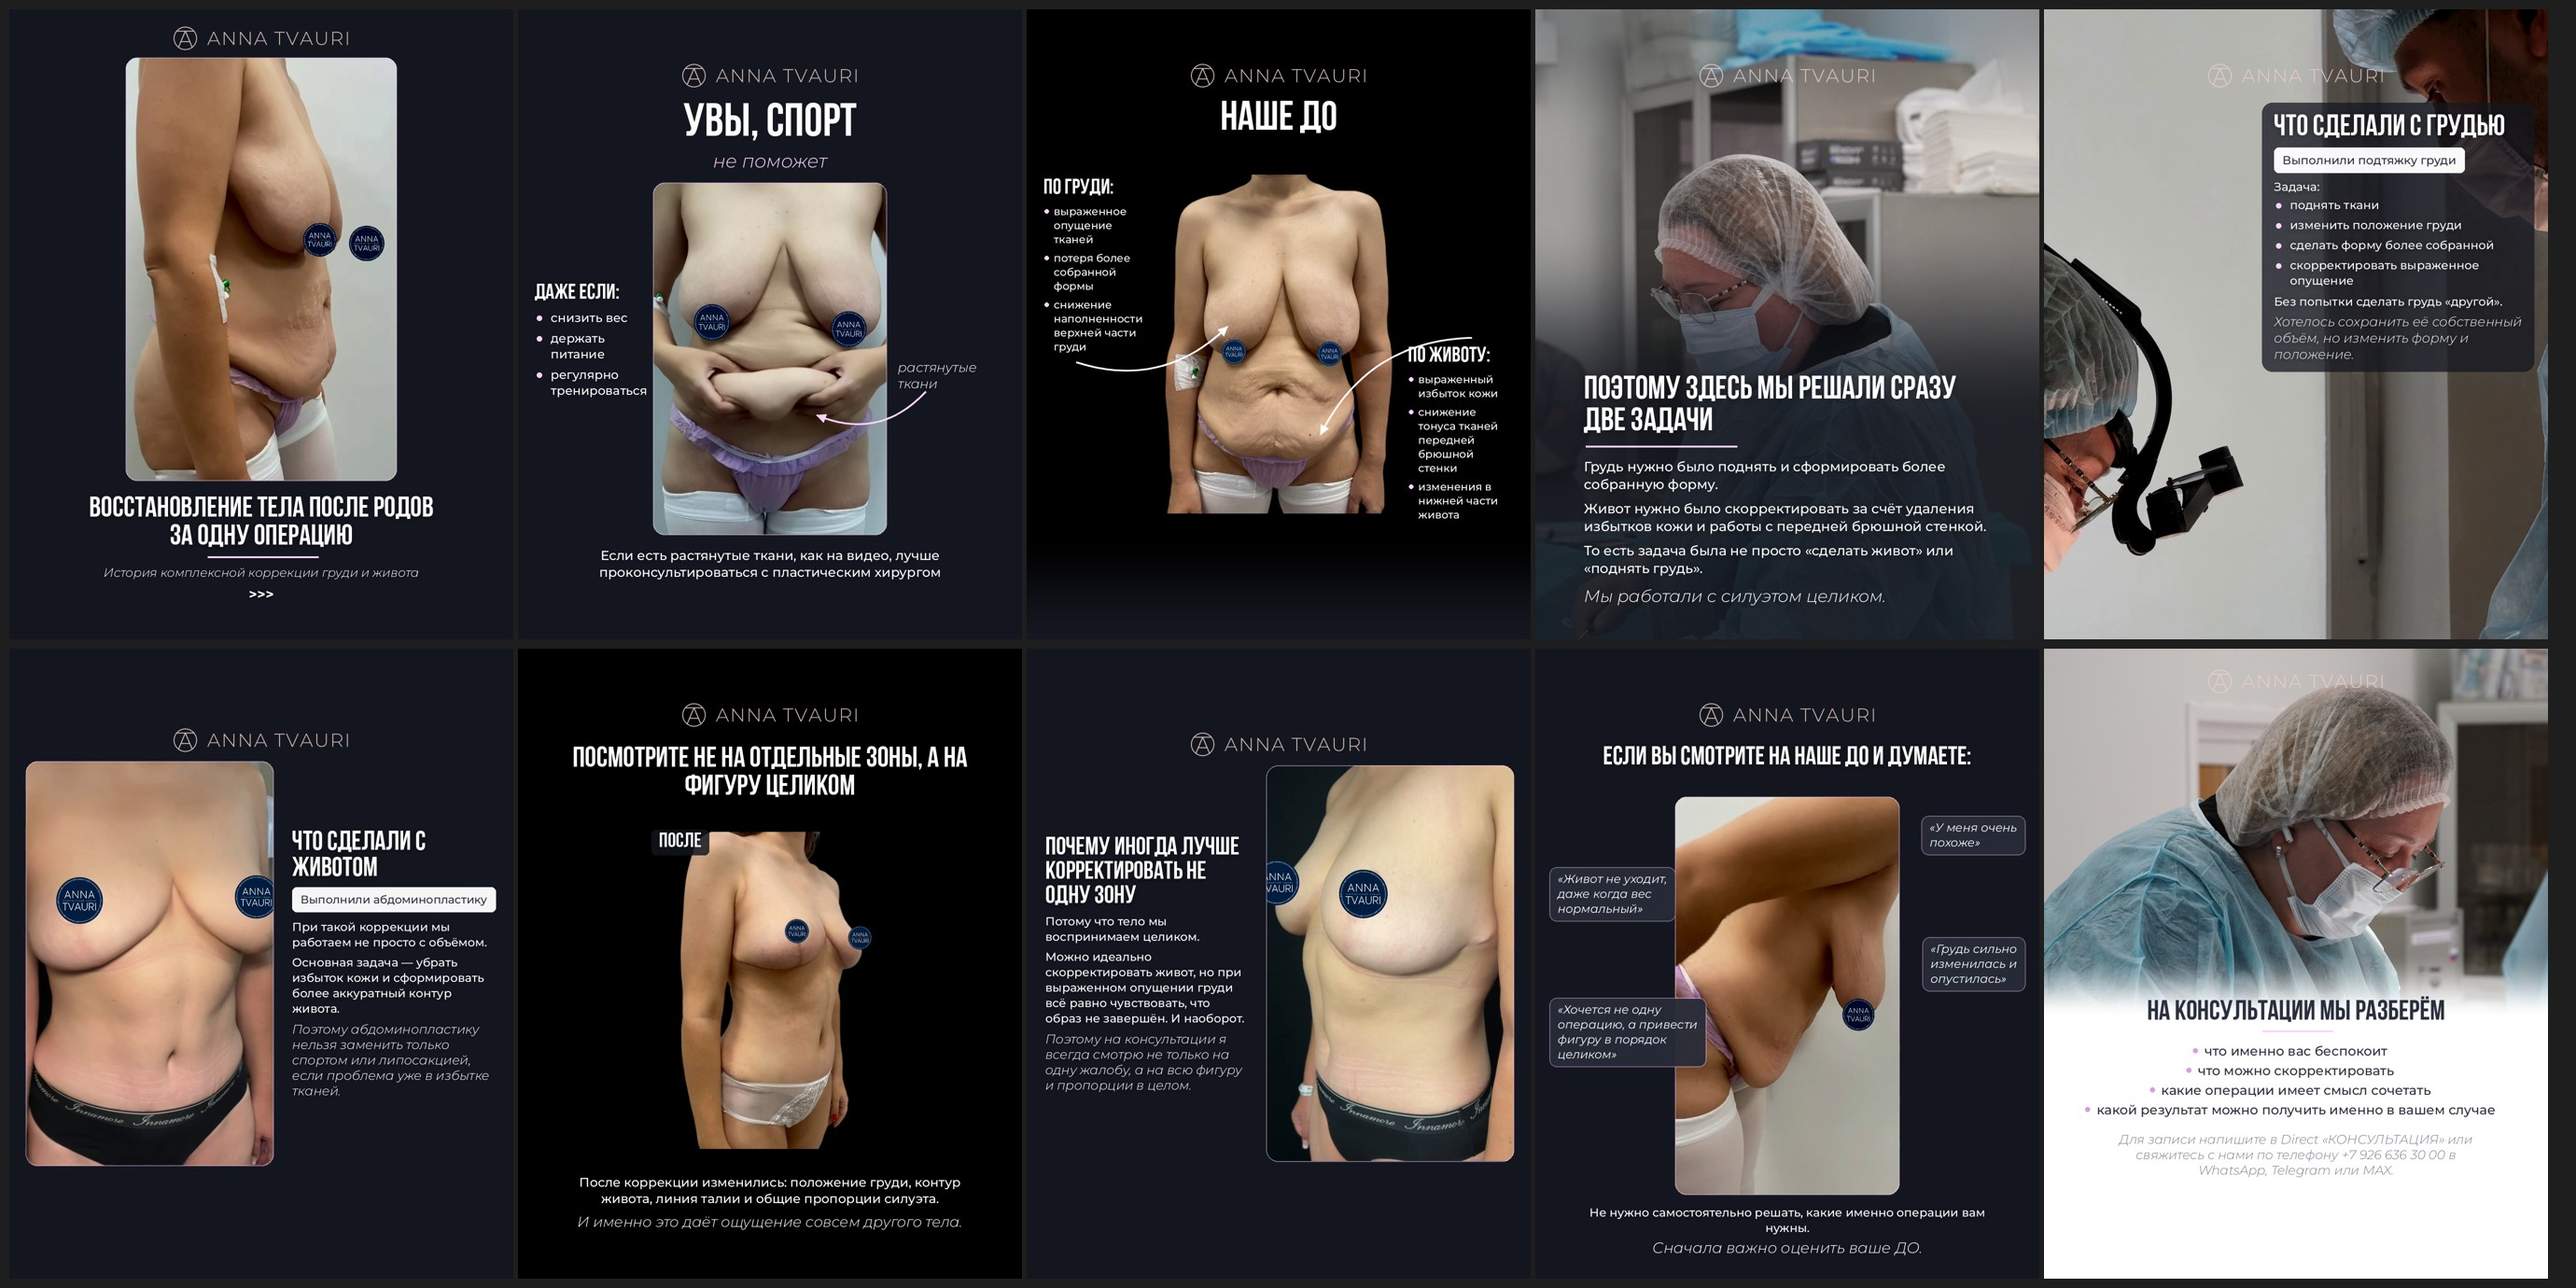
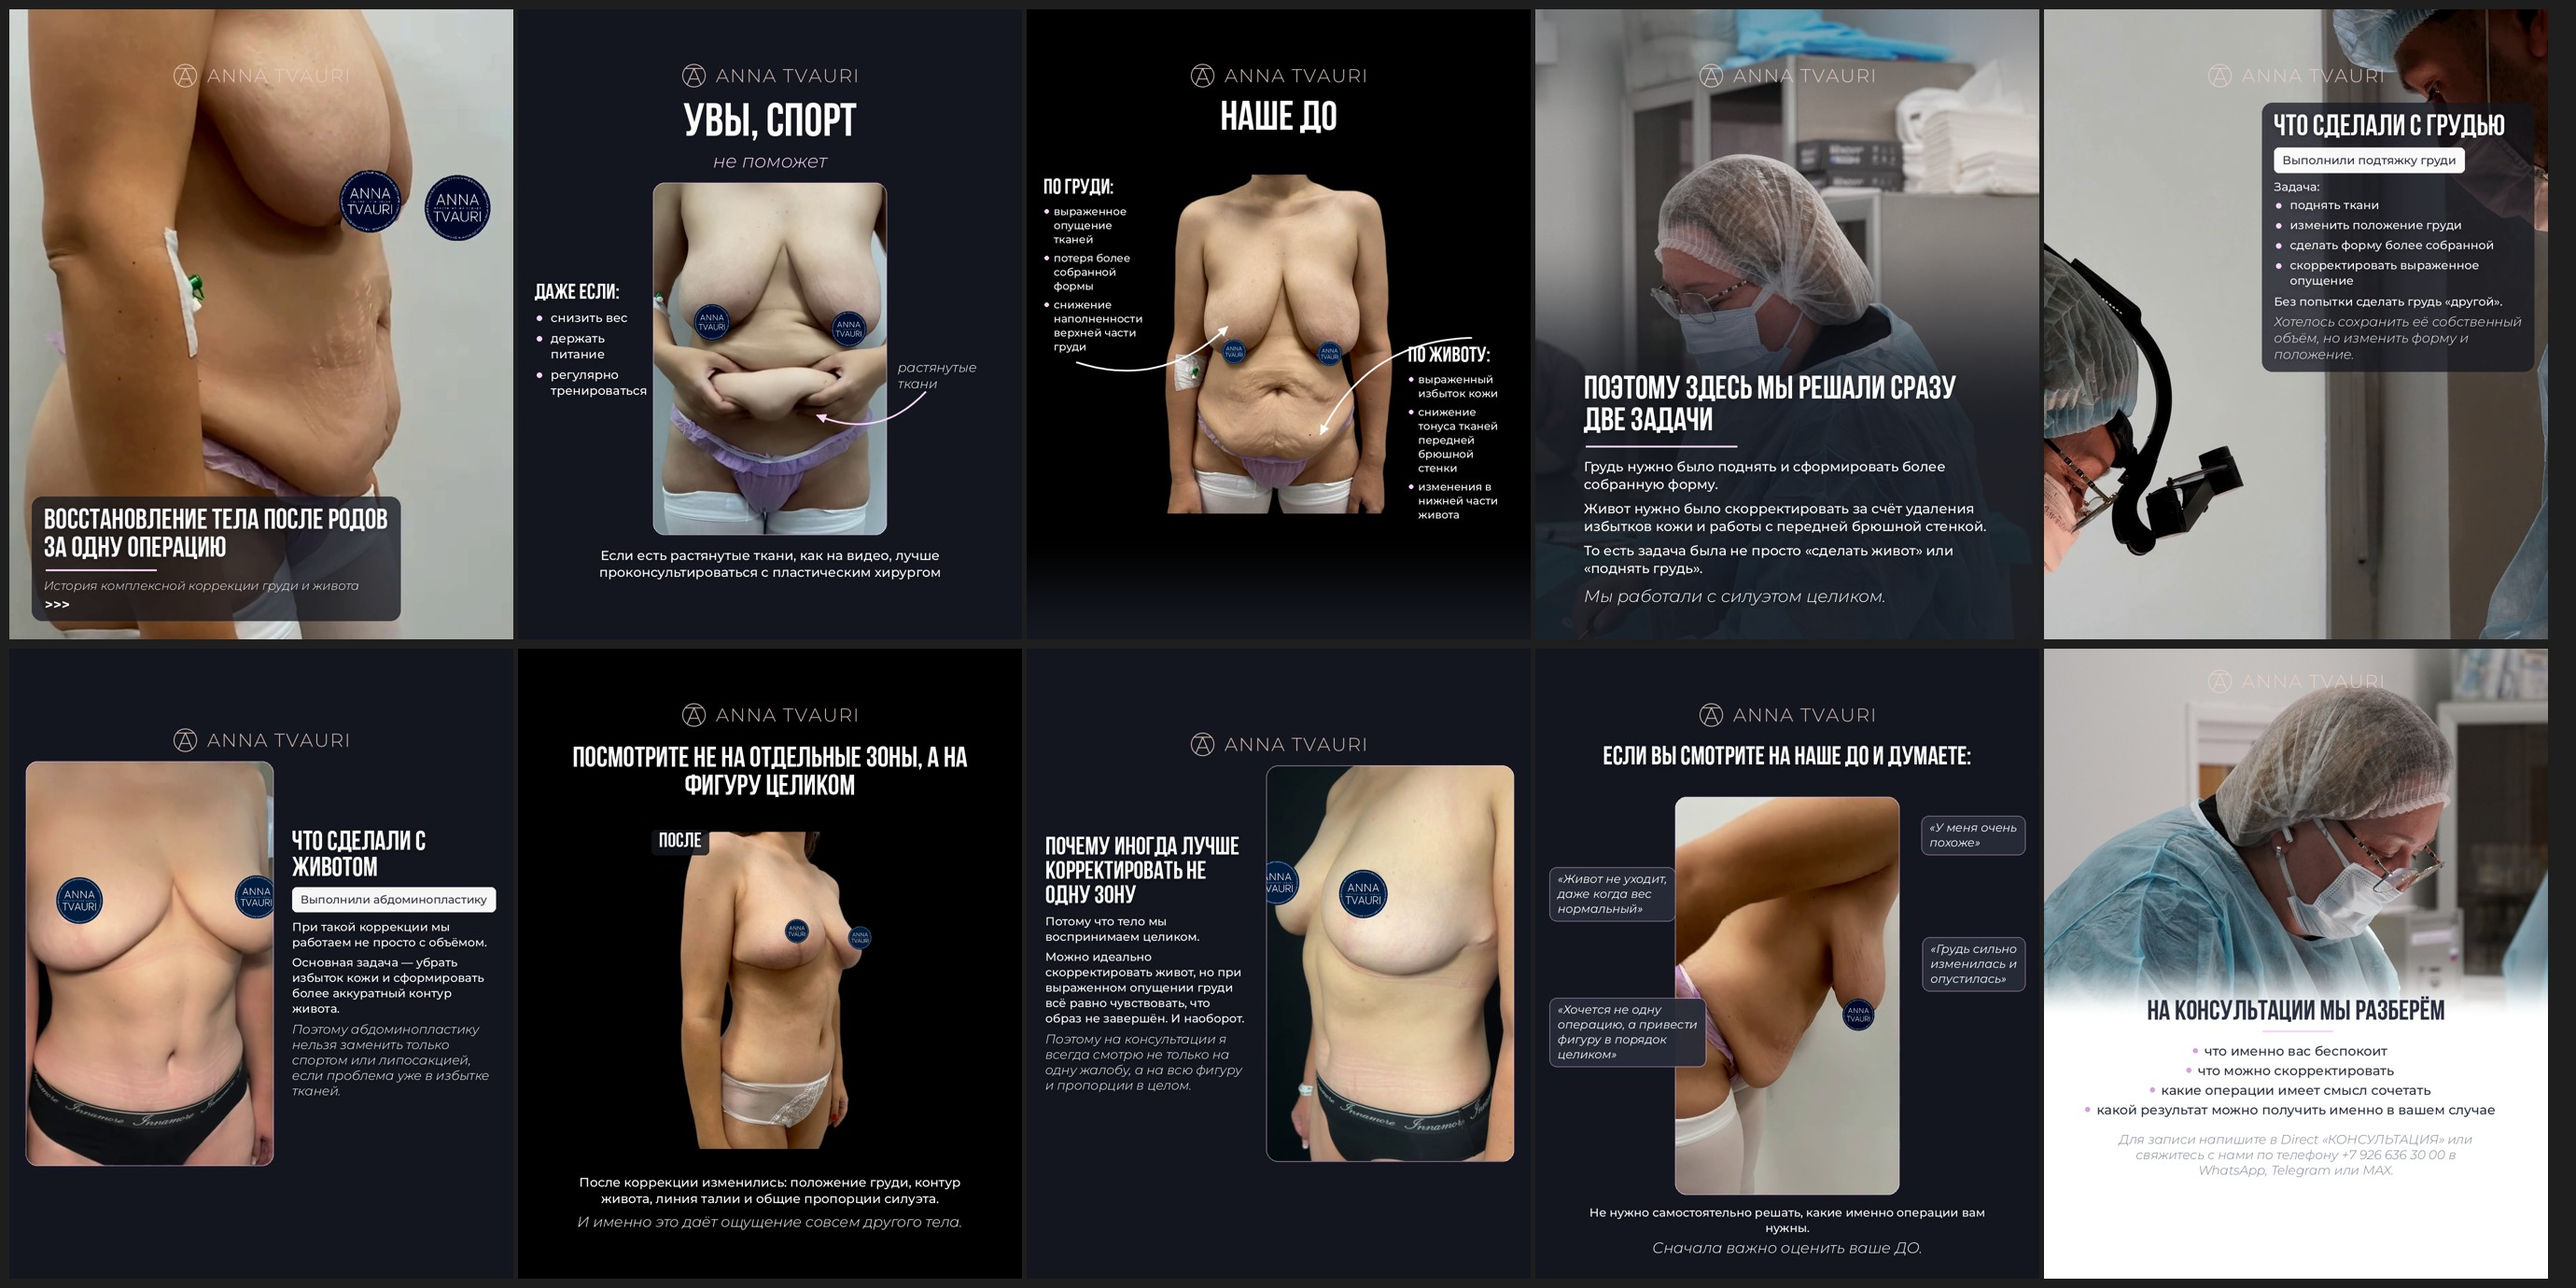
Carousel: cover back to full-frame layout with the new headline
Claude-Session: https://claude.ai/code/session_01XB7jWmRDxB52StXcRzXaWE

Changed region(s): [[0.0, 0.0, 0.2181, 0.4986]]

diff --git a/tools/carousel_tvauri.py b/tools/carousel_tvauri.py
@@ -418,14 +418,10 @@ def card_for(w, frac, x=None, y=None):
 
 # ---- 1. cover on the "before" footage
 def s01():
-    card = card_for(580, 0.88, y=104)
-    ov = frame_canvas(card); put_logo(ov, y=62)
-    b = (Block(W - 2 * MARGIN, "center").head("Восстановление тела после родов\nза одну операцию", 62, 12).rule(0.22, 14)
-         .ital("История комплексной коррекции груди и живота", 26, 0))
-    b.draw(ov, MARGIN, card[1] + card[3] + 30)
-    f3 = mont(30, 700); shadow_text(ov, ((W - f3.getlength(">>>")) / 2, card[1] + card[3] + 30 + b.height() + 12), ">>>", f3, WHITE)
-    framed_video("01", [("IMG_3357.MOV", 0, None)], ov, f"{OUT}/01_cover.mp4", card, grade=GRADE_WALL)
-
+    b = (Block().head("Восстановление тела после родов\nза одну операцию", 62, 14).rule(0.22, 14)
+         .ital("История комплексной коррекции груди и живота", 26, 10).arrows())
+    render_video("01", [("IMG_3357.MOV", 0, None)], caption_overlay(b, 1290), f"{OUT}/01_cover.mp4",
+                 crop_y=0.55, grade=GRADE_WALL)
 
 # ---- 2. not about weight: text panel + pinch footage
 def s02():
